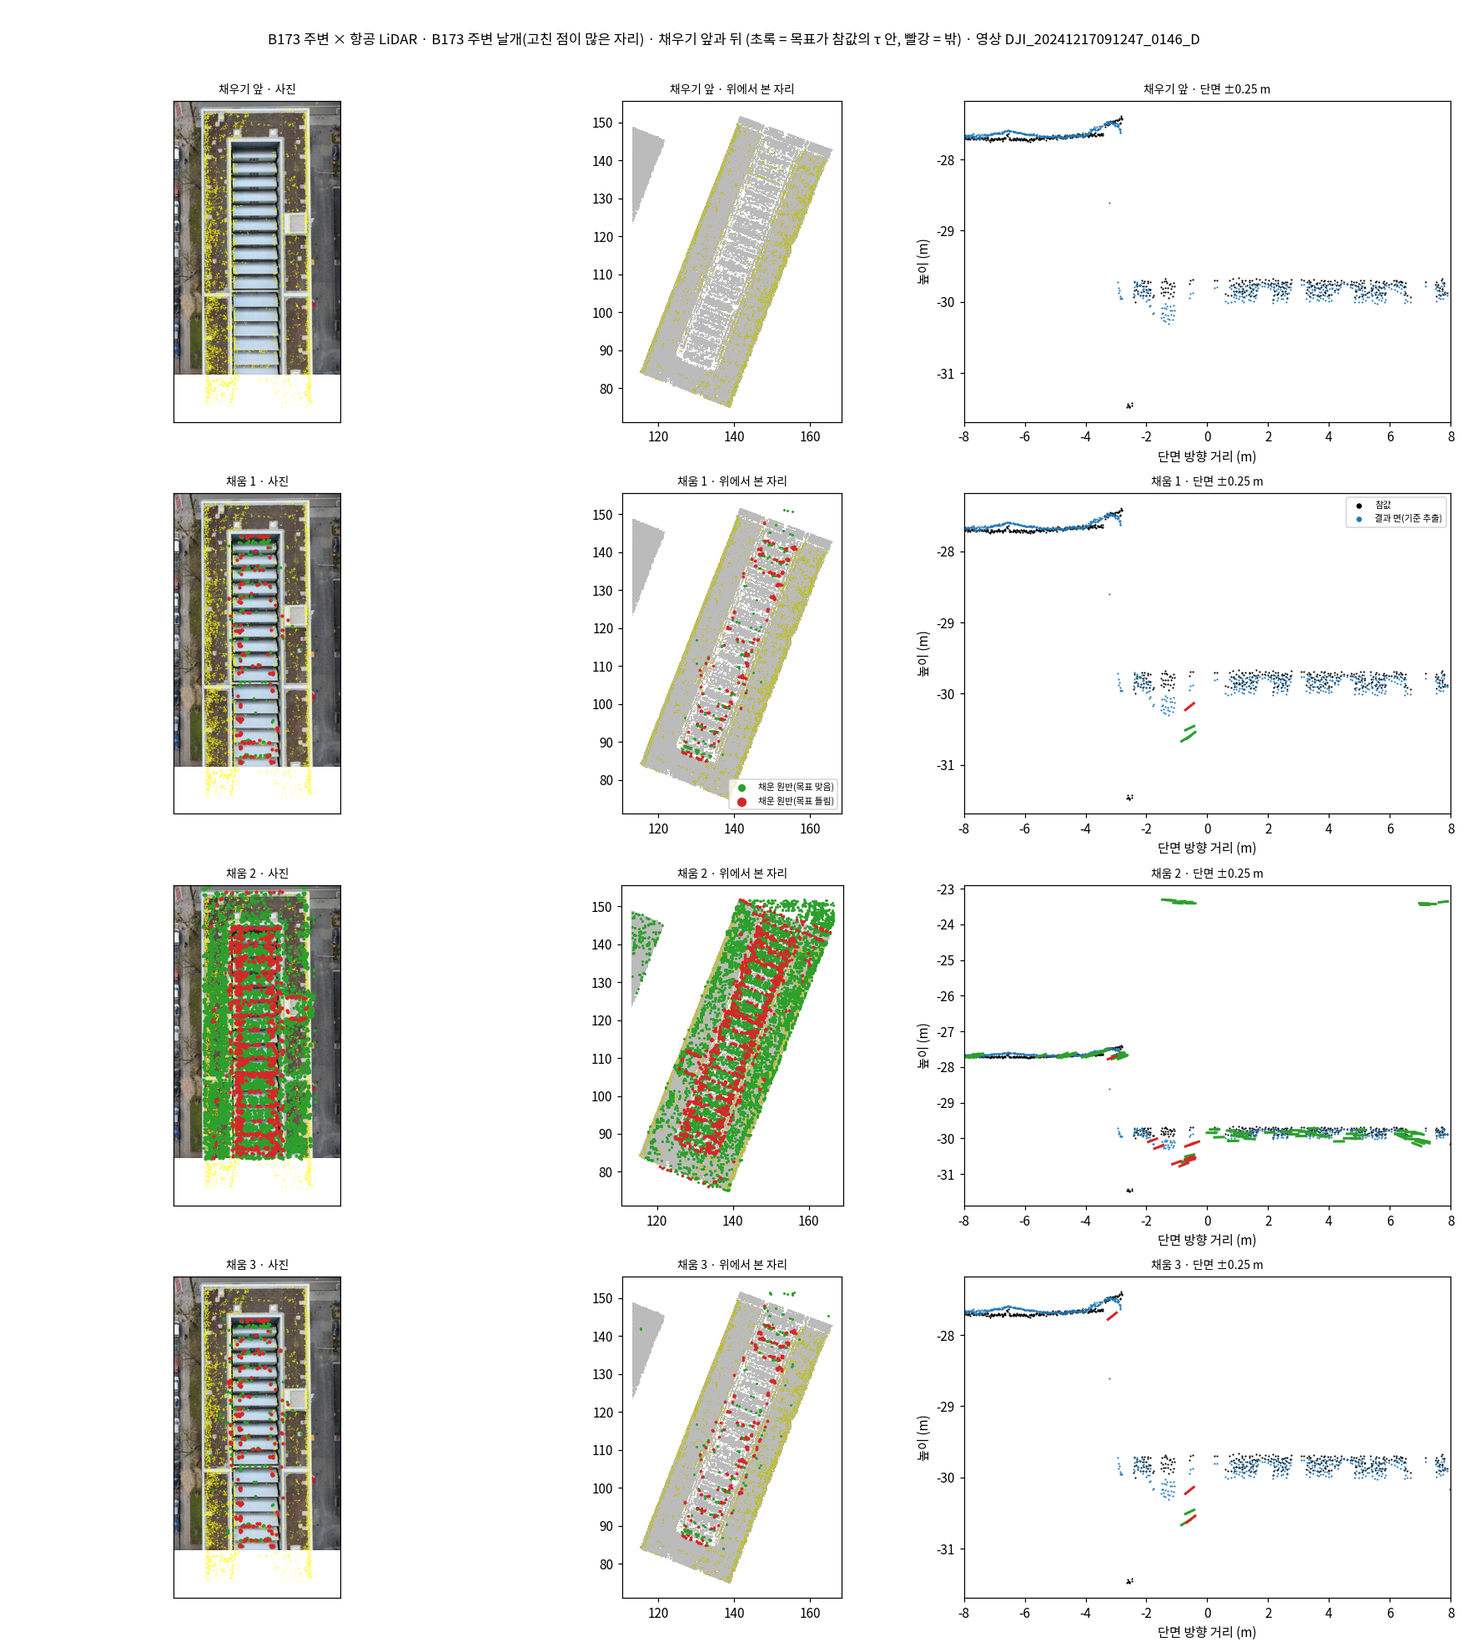
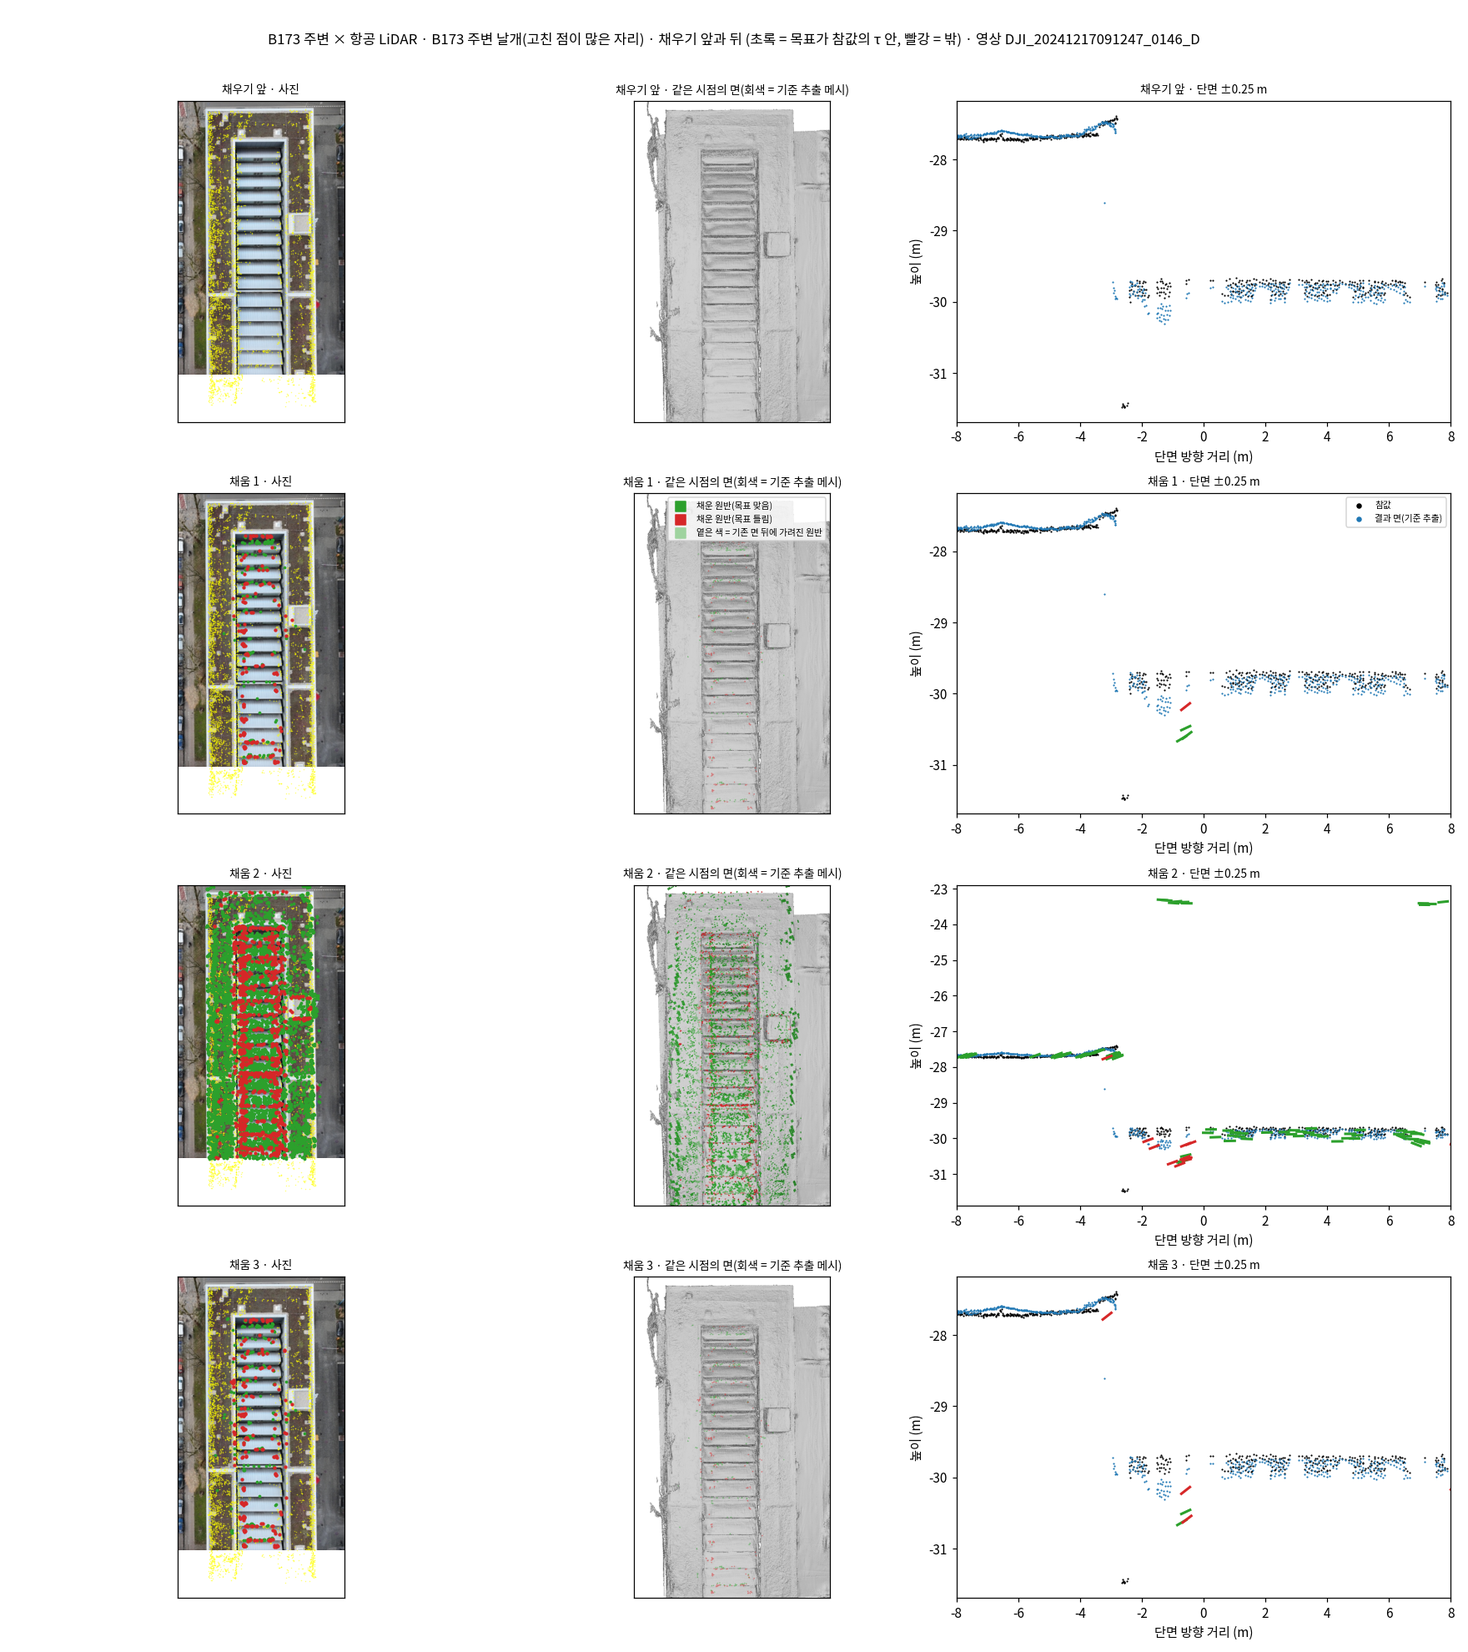
PHD-MAIN-TARGETPATH-v1 5절 그림 둘째 칸을 '같은 시점의 면'으로 고침(기준 추출 메시+채운 원반 광선 쏘기, 가려진 원반은 옅은 색), 표 불변, issues 20·검증_v1 갱신, 묶음 light·채움 1123-1330

diff --git a/scripts/phd/main_targetpath_v1/tp11_fill_out.py b/scripts/phd/main_targetpath_v1/tp11_fill_out.py
@@ -1,8 +1,10 @@
 """Order 5 tables, summary and figures (CPU, reads /tp/fill). usage: tp11_fill_out.py
 tables/tp_fill.csv (scene x extraction x fill), 채움_요약.md, figures/fill_<place>.png (+json): R1 바닥 띠 (R1 x ALS), R1 x LoD2 1번 벽,
 B0 잘 보이는 벽 (B0 x LoD2, 0-5 m and 5-10 m together), B173 주변 날개 (B173 x ALS, the largest cluster of fixed points).
-Three panels per fill (before | 채움 1 | 채움 2 | 채움 3 as rows): photo with the filled discs (centres) of that fill, top view (GT points, filled discs:
-target right = green, wrong = red), section +-0.25 m (GT, result surface of the base extraction, filled discs)."""
+Three panels per fill (before | 채움 1 | 채움 2 | 채움 3 as rows): photo with the filled discs (centres) of that fill, the surface seen from the same
+camera (ray cast with open3d into the base extraction mesh + the filled 16-gon discs; grey = mesh shaded by |n.ray|, green / red = filled disc whose
+target is right / wrong), section +-0.25 m (GT, result surface of the base extraction, filled discs). The top view of the first version was replaced
+by the same-camera surface after the order check (order 5: '사진, 같은 시점의 면, 단면')."""
 import sys
 sys.path.insert(0, '/repo/scripts/phd/main_targetpath_v1')
 from tp_common import *
@@ -10,6 +12,42 @@ from scipy import ndimage
 import matplotlib; matplotlib.use('Agg'); import matplotlib.pyplot as plt; from matplotlib import font_manager as fm
 fm.fontManager.addfont('/fonts/NotoSansCJK-Regular.ttc'); plt.rcParams['font.family'] = fm.FontProperties(fname='/fonts/NotoSansCJK-Regular.ttc').get_name(); plt.rcParams['axes.unicode_minus'] = False
 from PIL import Image
+import open3d as o3d
+MESH = {'R1rep_b10__ALS': RS/'addendum3_stage2/meshes/R1rep_b10__ALS__FINALTRAIN_30000/primary.ply', 'R1rep_b10__LoD2': RS/'addendum3_stage2/meshes/R1rep_b10__LoD2__FINALTRAIN_30000/primary.ply',
+        'B0_b10__LoD2': RS/'addendum3_stage2/meshes/B0_b10__LoD2__FINALTRAIN_30000/primary.ply', 'B173nb_b10__ALS': RS/'addendum3_stage1/meshes/B173nb_b10__ALS__FINALTRAIN_30000/primary.ply'}
+
+def disc_mesh(C, Nn, rad, k=16):   # same 16-gon discs as tp10_fill.discs
+    a = np.cross(Nn, np.eye(3)[np.argmin(np.abs(Nn), 1)]); a /= np.linalg.norm(a, axis=1, keepdims=True); b = np.cross(Nn, a)
+    th = 2*np.pi*np.arange(k)/k; ring = C[:, None]+rad[:, None, None]*(np.cos(th)[None, :, None]*a[:, None]+np.sin(th)[None, :, None]*b[:, None])
+    V = np.concatenate([C[:, None], ring], 1).reshape(-1, 3); base = (np.arange(len(C))*(k+1))[:, None]
+    F = np.stack([np.broadcast_to(base, (len(C), k)), base+1+np.arange(k), base+1+(np.arange(k)+1) % k], -1).reshape(-1, 3)
+    return V, F
+
+def base_mesh_in_view(stem, K, M, crop):
+    m = o3d.io.read_triangle_mesh(str(MESH[stem])); V = np.asarray(m.vertices).astype('f8'); F = np.asarray(m.triangles)
+    u, w, z, ok = project(V, K, M); x0, x1, y0, y1 = crop; inn = ok & (z > .2) & (u >= x0-50) & (u < x1+50) & (w >= y0-50) & (w < y1+50)
+    F = F[inn[F].any(1)]; used = np.unique(F); remap = np.full(len(V), -1); remap[used] = np.arange(len(used))
+    return V[used], remap[F], m
+
+def same_view(Vb, Fb, discs_, K, M, crop):
+    """Ray cast every pixel of the crop. discs_ = list of (V, F, rgb). Returns an RGB image (white = no surface)."""
+    sc = o3d.t.geometry.RaycastingScene(); ids = [sc.add_triangles(o3d.core.Tensor(Vb.astype('f4')), o3d.core.Tensor(Fb.astype('u4')))]; col = {ids[0]: None}
+    for V, F, rgb in discs_:
+        if len(F): i_ = sc.add_triangles(o3d.core.Tensor(V.astype('f4')), o3d.core.Tensor(F.astype('u4'))); col[i_] = np.asarray(rgb, 'f8')
+    x0, x1, y0, y1 = crop; uu, vv = np.meshgrid(np.arange(x0, x1)+.5, np.arange(y0, y1)+.5); Ki = np.linalg.inv(K); R_ = M[:3, :3]
+    d = (np.c_[uu.ravel(), vv.ravel(), np.ones(uu.size)]@Ki.T)@R_; d /= np.linalg.norm(d, axis=1, keepdims=True); o = np.broadcast_to(cam_centre(M), d.shape)
+    h = sc.cast_rays(o3d.core.Tensor(np.c_[o, d].astype('f4'))); t = h['t_hit'].numpy(); gid = h['geometry_ids'].numpy(); n = h['primitive_normals'].numpy()
+    lam = np.abs((n*d).sum(1)); img = np.ones((uu.size, 3)); hit = np.isfinite(t)
+    for i_, c in col.items():
+        m = hit & (gid == i_); sh = (.25+.75*lam[m])[:, None]
+        img[m] = sh*(np.array([.82, .82, .82]) if c is None else c)
+    # filled discs hidden behind the base mesh: light tint (see-through), so the panel shows where the fill went
+    for V, F, rgb in discs_:
+        if not len(F): continue
+        s2 = o3d.t.geometry.RaycastingScene(); s2.add_triangles(o3d.core.Tensor(V.astype('f4')), o3d.core.Tensor(F.astype('u4')))
+        t2 = s2.cast_rays(o3d.core.Tensor(np.c_[o, d].astype('f4')))['t_hit'].numpy(); hid = np.isfinite(t2) & (gid == ids[0]) & (t2 > t)
+        img[hid] = .5*img[hid]+.5*np.asarray(rgb, 'f8')
+    return img.reshape(uu.shape+(3,))
 VAR = ['채움 1', '채움 2', '채움 3']
 
 def md(head, rows): return '\n'.join(['| '+' | '.join(head)+' |', '|'+'---|'*len(head)]+['| '+' | '.join(r)+' |' for r in rows])
@@ -39,33 +77,36 @@ def figure(key):
         if best is None or sc > best[0]: best = (sc, nm)
     nm = best[1]; v = idx[nm]; K = np.asarray(v['K']); M = np.asarray(v['W2C']); img = np.asarray(Image.open(S0/'fork_inputs/s61'/site/f'scene_{prior}'/'images'/f'{nm}.jpg').convert('RGB').resize((1024, 741)))
     u, w, z, _ = project(X, K, M); x0, x1 = int(max(0, u.min()-80)), int(min(1024, u.max()+80)); y0, y1 = int(max(0, w.min()-80)), int(min(741, w.max()+80))
+    crop = (x0, x1, y0, y1); Vb, Fb, _ = base_mesh_in_view(stem, K, M, crop)
     gm = box(RX); fig, axs = plt.subplots(4, 3, figsize=(16, 18)); info = dict(figure=f'fill_{key}.png', scene=STEM_KO[stem], place=title, view=nm, rows={})
     for ri, vn in enumerate(['채우기 앞'] + VAR):
         a0, a1, a2 = axs[ri]
         a0.imshow(img[y0:y1, x0:x1]); a0.scatter(u-x0, w-y0, s=1, c='yellow', lw=0, alpha=.5)
-        a1.scatter(RX[gm, 0], RX[gm, 1], s=.3, c='#BBBBBB', lw=0); a1.scatter(X[:, 0], X[:, 1], s=.5, c='y', lw=0)
         dsec = (RX[:, :2]-c0[:2])@perp; ssec = (RX[:, :2]-c0[:2])@hv; sl = gm & (np.abs(dsec) <= .25)
         a2.scatter(ssec[sl], RX[sl, 2], s=2, c='k', lw=0, label='참값')
         ok = sl & np.isfinite(s0); Y = RX[ok]+s0[ok, None]*RN[ok]; a2.scatter((Y[:, :2]-c0[:2])@hv, Y[:, 2], s=2, c='#1F77B4', lw=0, label='결과 면(기준 추출)')
         r = dict()
+        if vn == '채우기 앞': a1.imshow(same_view(Vb, Fb, [], K, M, crop))
         if vn != '채우기 앞':
             p = F[f'{vn}__patches']; wr = F[f'{vn}__wrong']; C = T['target'][p]; inb = box(C); p, wr, C = p[inb], wr[inb], C[inb]
             uc, wc, zc, okc = project(C, K, M); vis = okc & (uc >= x0) & (uc < x1) & (wc >= y0) & (wc < y1)
             a0.scatter(uc[vis & ~wr]-x0, wc[vis & ~wr]-y0, s=6, c='#2CA02C', lw=0); a0.scatter(uc[vis & wr]-x0, wc[vis & wr]-y0, s=8, c='#D62728', lw=0)
-            a1.scatter(C[~wr, 0], C[~wr, 1], s=4, c='#2CA02C', lw=0, label='채운 원반(목표 맞음)'); a1.scatter(C[wr, 0], C[wr, 1], s=6, c='#D62728', lw=0, label='채운 원반(목표 틀림)')
+            Vg, Fg = disc_mesh(C[~wr].astype('f8'), T['normal'][p[~wr]].astype('f8'), np.sqrt(T['area'][p[~wr]]/np.pi)); Vr, Fr = disc_mesh(C[wr].astype('f8'), T['normal'][p[wr]].astype('f8'), np.sqrt(T['area'][p[wr]]/np.pi))
+            a1.imshow(same_view(Vb, Fb, [(Vg, Fg, (.17, .63, .17)), (Vr, Fr, (.84, .15, .16))], K, M, crop))
+            a1.scatter([], [], s=6, c='#2CA02C', marker='s', label='채운 원반(목표 맞음)'); a1.scatter([], [], s=6, c='#D62728', marker='s', label='채운 원반(목표 틀림)'); a1.scatter([], [], s=6, c='#9FD39F', marker='s', label='옅은 색 = 기존 면 뒤에 가려진 원반')
             ds = (C[:, :2]-c0[:2])@perp; ss = (C[:, :2]-c0[:2])@hv; cs_ = np.abs(ds) <= .3
             for k in np.flatnonzero(cs_):
                 n_ = T['normal'][p[k]]; rad = np.sqrt(T['area'][p[k]]/np.pi); tvec = np.cross(n_, [perp[0], perp[1], 0]); tvec = tvec/max(np.linalg.norm(tvec), 1e-9)
                 e1, e2 = C[k]-rad*tvec, C[k]+rad*tvec; a2.plot([(e1[:2]-c0[:2])@hv, (e2[:2]-c0[:2])@hv], [e1[2], e2[2]], c='#D62728' if wr[k] else '#2CA02C', lw=2)
             r = dict(filled_in_place=int(len(p)), wrong_in_place=int(wr.sum()), area_in_place_m2=float(T['area'][p].sum()))
-        a0.set_title(f'{vn} · 사진', fontsize=9); a1.set_title(f'{vn} · 위에서 본 자리', fontsize=9); a1.set_aspect('equal'); a2.set_title(f'{vn} · 단면 ±0.25 m', fontsize=9)
+        a0.set_title(f'{vn} · 사진', fontsize=9); a1.set_title(f'{vn} · 같은 시점의 면(회색 = 기준 추출 메시)', fontsize=9); a2.set_title(f'{vn} · 단면 ±0.25 m', fontsize=9)
         a2.set_xlim(-8, 8); a2.set_xlabel('단면 방향 거리 (m)'); a2.set_ylabel('높이 (m)')
         if ri == 1: a1.legend(fontsize=7, markerscale=3); a2.legend(fontsize=7, markerscale=3)
-        for a in [a0]: a.set_xticks([]); a.set_yticks([])
+        for a in [a0, a1]: a.set_xticks([]); a.set_yticks([])
         info['rows'][vn] = r
     fig.suptitle(f'{STEM_KO[stem]} · {title} · 채우기 앞과 뒤 (초록 = 목표가 참값의 τ 안, 빨강 = 밖) · 영상 {nm}', fontsize=11); fig.tight_layout(rect=(0, 0, 1, .975))
     p = D/'figures'/f'fill_{key}.png'; fig.savefig(p, dpi=110); plt.close(fig)
-    dump(p.with_suffix('.json'), dict(info, colours={'목표 맞음': '#2CA02C', '목표 틀림': '#D62728', '결과 면': '#1F77B4', '참값': 'k', '자리 점': 'yellow'},
+    dump(p.with_suffix('.json'), dict(info, colours={'목표 맞음': '#2CA02C', '목표 틀림': '#D62728', '결과 면': '#1F77B4', '참값': 'k', '자리 점': 'yellow', '같은 시점의 면': '회색 = 기준 추출 메시(밝기 = 면과 광선의 각), 진한 초록·빨강 = 보이는 채운 원반, 옅은 초록·빨강 = 기준 메시 뒤에 가려진 채운 원반'}, meshes={k: str(v) for k, v in MESH.items() if k == stem},
                                       note='채운 원반은 규칙(가우시안 없음·그려지지 않음)으로 골랐고, 맞음/틀림 색만 참값으로 칠했다(채점).', scientific_verdict=None))
     print('FILL_FIG', key, flush=True)
 

diff --git a/docs/experiments/phd/main_targetpath_v1/검증_v1.md b/docs/experiments/phd/main_targetpath_v1/검증_v1.md
@@ -25,7 +25,7 @@
 | 5 | 여섯 장면 × 추출 둘 × 채움 셋 = 36행, 낼 값 열 | 모두 있음. 빈칸 없음 |
 | 5 | 채운 원반 표본에 NaN 없음 | 없음 |
 | 5 | 채우는 규칙에 참값 안 씀 | 맞음(코드 확인, 아래 '손으로 본 것' 1) |
-| 5 | 그림 넷(R1 바닥 띠, R1 × LoD2 1번 벽, B0 잘 보이는 벽, B173 주변 날개) | 있음. '같은 시점의 면'은 다름(아래 '손으로 본 것' 2) |
+| 5 | 그림 넷(R1 바닥 띠, R1 × LoD2 1번 벽, B0 잘 보이는 벽, B173 주변 날개) | 있음. 둘째 칸을 '같은 시점의 면'으로 **고침**(아래 '찾은 것' 3) |
 | 6 | 장면마다 그림 셋(종류 2·3이 주됨, 종류 1이 주됨, 고친 점) + 바닥 띠 두 판, json | 19장, json 19개 모두 있음 |
 | 7 | 모든 실행이 GPU 없이 돎, 원자료·저장소를 읽기 전용으로 붙임 | 실행 기록(`logs/jobs.jsonl`) 모두 맞음 |
 | 8 | `points/tp_<장면>.npz` 열(무리, 다섯 종류 영상 수, w 중앙, 가려진 화소 감독 영상 수, 주된 가우시안 종류) | 여섯 장면 모두 있음 |
@@ -39,6 +39,12 @@
    - 새로 보이는 수(가려지지 않은 영상): R1 × 항공 LiDAR 잃은 점에서 2·3위도 1위처럼 대부분 앞에 있다(90.4 %, 87.9 %). 거리 중앙은 약 −10 τ, 제약 없음은 81 %, 80 %, 긴 축은 2.5 m다.
    - B173 주변 × LoD2 고친 점에서는 2·3위도 τ 안이다(86.4 %, 84.2 %).
 2. **요약 1.1의 '가린 감독' 칸이 비어 있던 까닭을 적었다.** 1.1은 가려진 쌍을 뺀 영상 무리라 이 칸이 비는 것이 정상이다. 그 값은 1.2에 있다는 문장을 1.1 머리에 넣었다.
+3. **5절 그림의 둘째 칸을 '같은 시점의 면'으로 바꿨다(사용자 결정, 11/23 13시 반).** 발주문은 '사진, 같은 시점의 면, 단면'인데, 첫 판의 둘째 칸은 위에서 본 평면도였다.
+   - 지금은 사진과 같은 카메라에서 화소마다 광선을 쏴(open3d), 기준 추출 메시와 채운 원반(16각형, 5절 셈과 같은 원반)을 그린다.
+   - 기준 추출 메시는 채점에 쓴 그 파일이다(R1 둘·B0 = RESCORE addendum3_stage2, B173 주변 = addendum3_stage1 `FINALTRAIN_30000/primary.ply`).
+   - 회색 = 메시(밝기 = 면과 광선의 각). 진한 초록·빨강 = 보이는 채운 원반(목표 맞음·틀림). 옅은 색 = 기존 메시 뒤에 가려진 채운 원반.
+   - 채움 1·3의 원반은 정의상 어느 학습 영상에서도 그려지지 않는 조각이라, 이 시점에서도 대부분 기존 면 뒤에 있다. R1 바닥 띠에서는 떠 있는 결과 면 아래의 옅은 띠로 보인다.
+   - 표(`tp_fill`)와 `채움_요약.md`는 다시 만든 뒤 한 글자도 바뀌지 않았다(`issues.md` 20).
 
 ## 손으로 본 것
 
@@ -48,7 +54,7 @@
    - 학습 영상 CPU 합성(그린 깊이와 누적 불투명도)
 
    참값(`gt_reference`, `dense.npz`)은 고르기가 끝난 다음 줄부터 읽고, 채점과 채운 원반 표본의 법선 방향 맞추기에만 쓴다.
-2. **5절 그림의 둘째 칸.** 발주문은 '사진, 같은 시점의 면, 단면'이다. 낸 그림의 둘째 칸은 같은 시점이 아니다. 대신 '위에서 본 자리'(채운 원반을 맞음·틀림 색으로 칠한 평면도)를 넣었다. 같은 시점의 모습은 첫째 칸 사진 위에 채운 원반을 겹친 것으로 대신했다. **발주문과 다르다.** 필요하면 같은 시점에서 면을 그린 칸으로 바꿀 수 있다(아직 하지 않음).
+2. **5절 그림의 둘째 칸.** 위 '찾은 것' 3으로 고쳤다. 네 그림을 눈으로 확인했다.
 3. **6절 그림.** 칸 넷(사진, 목표 지도, 화소 무게, 단면)과 한글 글자를 확인했다. 제목에 영상 파일 이름(`DJI_…`)이 들어 있다. 그 영상을 찾는 데 필요해 남겼다.
 4. **1,000점 규칙 때문에 비는 칸.** 다음 무리는 1,000점이 안 되어 2절 비율이 비고 수와 w 중앙만 있다.
    - B173 주변 × 항공 LiDAR 잃은 점 826
@@ -65,5 +71,6 @@
 - `목표전달셈_요약.md`: 3절 표 하나와 1.1 문장 하나를 더했다.
 - `issues.md`: 19번을 더했다.
 - 새 파일: `검증_v1.md`, `검증_v1.json`.
-- 스크립트: `tp6_front.py`, `tp9_summary.py`, `tp_zip.py`를 고쳤고 `tp12_verify.py`를 새로 썼다.
+- `figures/fill_*.png`, `fill_*.json`: 둘째 칸을 바꿨다.
+- 스크립트: `tp6_front.py`, `tp9_summary.py`, `tp11_fill_out.py`, `tp_zip.py`를 고쳤고 `tp12_verify.py`를 새로 썼다.
 - 묶음: `PHD-MAIN-TARGETPATH-v1_<새 시각>_light.zip`, `…_채움_<새 시각>.zip`. 이 검증 문서가 들어간다. 03:33 묶음은 4절 2·3위가 빠진 판이다.

diff --git a/docs/experiments/phd/main_targetpath_v1/issues.md b/docs/experiments/phd/main_targetpath_v1/issues.md
@@ -21,3 +21,4 @@
 17. **5절 메시를 만들지 않은 모의.** '판단으로 조합한 메시' 규칙(조각 사각면을 렌더한 뒤 TSDF)을 거치지 않고, 원반을 기존 추출 면에 바로 더한 것으로 셌다. 완전성 = GTJUDGE `normal_line.measure`(5 광선 × 두 방향, 10 m / 벽 5 m)로 원반까지 잰 거리와 저장된 추출 거리 가운데 가까운 것이 τ 안. 정확성 = 원반에 m²당 400개 표본(1단계 격자 칸 안만)을 뽑아 GTJUDGE 원기둥 거리(`cylinder.cpp`)로 잰 것을 기존 표본에 더함. eligible = 가장 가까운 참값 점 1 m 안이고 (LoD2 또는 |nz| ≥ 0.5). 기존 표본의 eligible은 저장된 값을 그대로 썼다. TSDF를 거치면 얇은 원반이 다르게 합쳐질 수 있다.
 18. **5절 '목표가 틀린 조각'.** 채운 원반 표본(eligible) 가운데 τ 안이 절반 미만인 조각(채점에만 참값을 씀). '고친 점이 든 조각' = 틀린 목표 셈 점 자료에서 고친 점(`case_id` 1, 목표 틀림, 결과 맞음)의 `patch_row`. B0 × LoD2와 B173 주변 × LoD2는 점 자료가 30만 점 표본이라 고친 점 조각이 조금 적게 잡힐 수 있다.
 19. **4절 2·3위 가우시안(검증 뒤 덧붙임, 11/23 13시).** 발주 의도 검증에서 4절 첫째 줄의 '가장 큰 가우시안 셋의 거리·불투명도·크기'가 1위만 실려 있던 것을 찾았다. `tp6_front.py`에 2·3위 열(종류·자리 비율, 거리 τ배·불투명도·긴 축·무게 중앙)을 더해 다시 돌렸다. 기존 열은 다섯 표 모두 한 칸도 바뀌지 않았다(`검증_v1.md`).
+20. **5절 그림의 '같은 시점의 면'(11/23 13시 반 고침).** 첫 판은 둘째 칸이 위에서 본 평면도였다. 이제 사진과 같은 카메라에서 open3d 광선 쏘기로 기준 추출 메시(채점에 쓴 FINALTRAIN 30,000회 메시)와 채운 16각형 원반을 그린다. 기존 메시 뒤에 가려진 원반은 옅은 색으로 비쳐 보이게 했다(채움 1·3은 정의상 대부분 가려져 있다). 원반의 맞음·틀림 색만 채점용 참값으로 칠했다.

diff --git a/docs/experiments/phd/main_targetpath_v1/목표전달셈_요약.md b/docs/experiments/phd/main_targetpath_v1/목표전달셈_요약.md
@@ -1,6 +1,6 @@
 # 목표 전달 셈 요약 (PHD-MAIN-TARGETPATH-v1)
 
-- 만든 때: 2026-11-23T13:19:28.898155+09:00. 학습하지 않았다. 저장된 모델·목표 지도·점 자료를 읽기만 했다(GPU 쓰지 않음). `scientific_verdict`: null.
+- 만든 때: 2026-11-23T13:30:08.917515+09:00. 학습하지 않았다. 저장된 모델·목표 지도·점 자료를 읽기만 했다(GPU 쓰지 않음). `scientific_verdict`: null.
 - 판은 둘이다. **본 방법** = FINALTRAIN-v1 30,000회, **참값 목표** = GTTARGET-v1 씨앗 0, 30,000회(진단용, B173 주변 × LoD2는 학습 결과 없음).
 - 무리: 가 = 영상 깊이 면이 틀리고 사전 정보 면이 맞으며 본 방법의 목표가 맞는 참값 점(잃음 / 지킴), 나 = 사전 정보가 틀리고 영상이 맞으며 본 방법의 목표가 틀린 참값 점(고침 / 고치지 못함), 대조 = 두 자료 모두 맞고 목표가 맞는 점.
 - 참값 점이 1,000개에 못 미치는 칸은 비율을 싣지 않았다(·). 그 칸의 수는 `tables/*.csv`에 있다. 정의는 `issues.md`.
@@ -798,9 +798,9 @@ R1 × 항공 LiDAR: 점의 목표 조각에 위치 제약된 가우시안이 나
 | tp5_tables.py | 52 |
 | tp6_front.py | 580 |
 | tp7_figs.py | 300 |
-| tp9_summary.py | 1 |
-| tp_zip.py | 2 |
+| tp9_summary.py | 2 |
+| tp_zip.py | 5 |
 | tp10_fill.py | 1922 |
-| tp11_fill_out.py | 20 |
-| tp12_verify.py | 5 |
+| tp11_fill_out.py | 212 |
+| tp12_verify.py | 15 |
 
